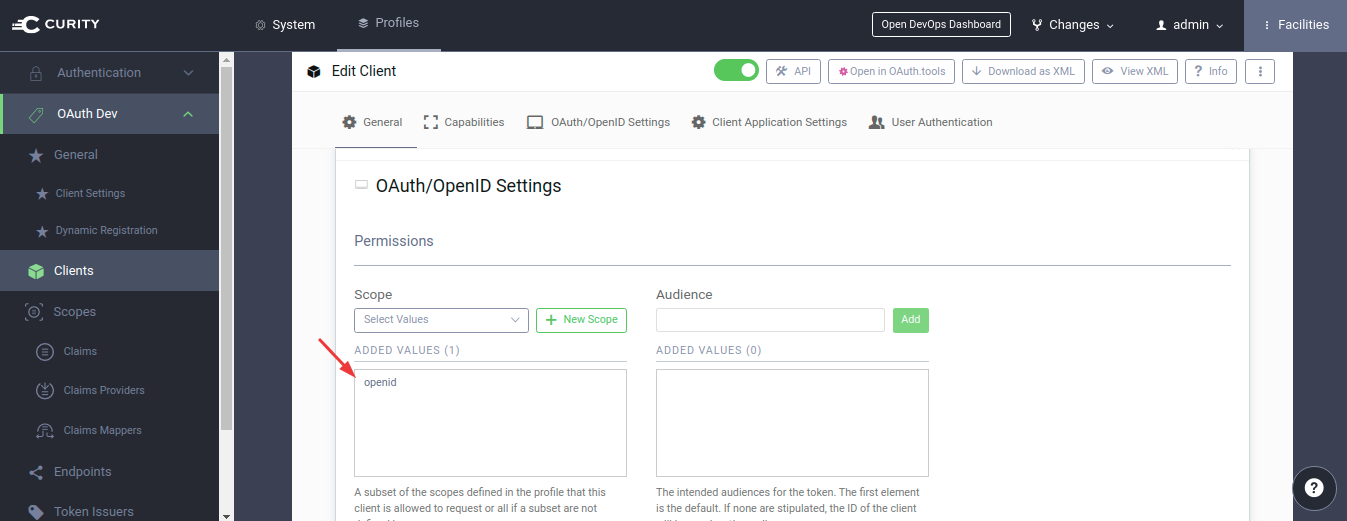
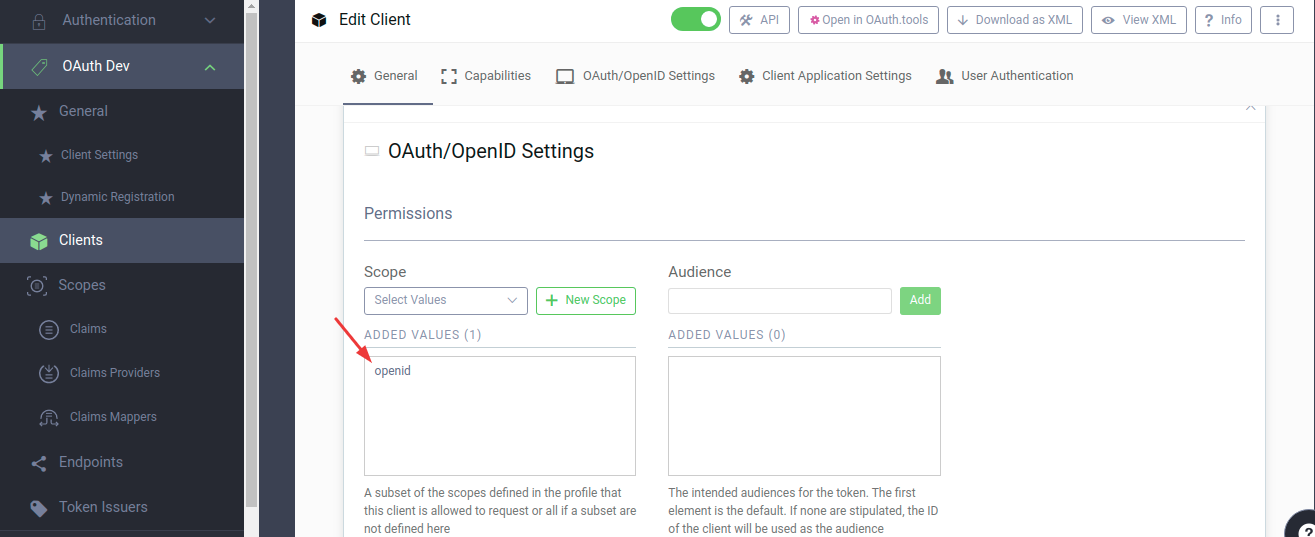
fix - update `openid` screenshot - whitespace fix - remove `Validate` keyword

Changed region(s): [[0.0, 0.0, 1.0, 1.0], [0.0, 0.737, 0.1247, 1.0], [0.4989, 0.4914, 0.5612, 0.5221]]

diff --git a/README.md b/README.md
@@ -82,21 +82,16 @@ If you are not using the sample configuration, then you need to make sure the fo
 
    ![image](./docs/images/client-capabilities.png)
 
-
-5. Navigate to `OAuth/OpenID Settings` section make sure to add
-   `openid` scope.
+5. Navigate to `OAuth/OpenID Settings` section make sure to add `openid` scope.
    
-   
-   ![image](./docs/images/openid-scope.png)
-
+![image](./docs/images/openid-scope.png)
 
 6. Update the `Redirect URIs` and `Allowed Origins` settings for the `client-assisted-example` Client. The redirect URI should be `http://localhost:3000`. The allowed origin should be the same or, for testing purposes, you can also use `*`.
 
+
    ![image](./docs/images/client-application-settings.png)
-
        
-7. `Validate` and `Commit` the changes and you are all setup.
-
+7. `Commit` the changes and you are all setup.
 
 If you compare the final config with the sample config, then you will find the following salient differences.
 
